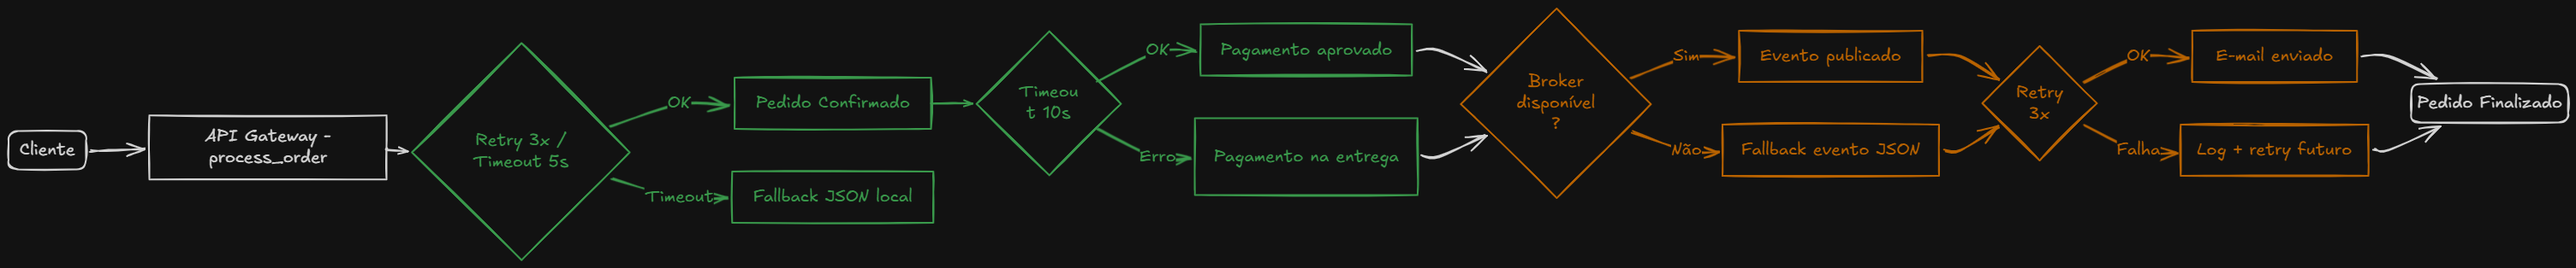
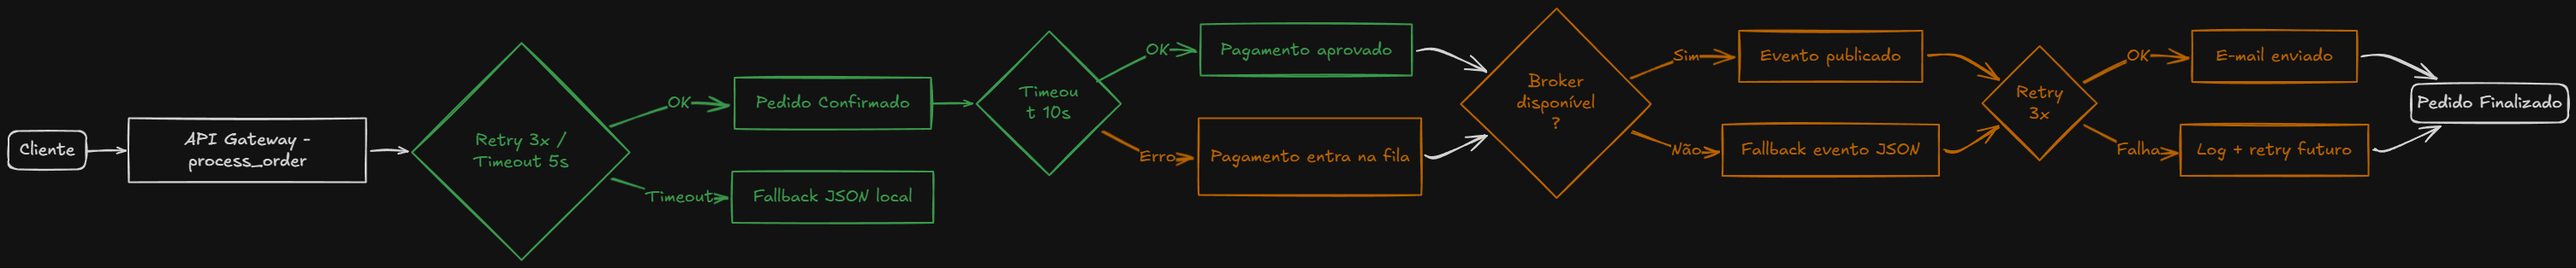
Acertando o fallback do pagamento

diff --git a/gateway.py b/gateway.py
@@ -49,11 +49,11 @@ def save_fallback_order(order: dict) -> str:
     return f"pedido salvo em fila local (fallback_orders.json)"
  
 def payment_fallback(order: dict) -> dict:
-    """Fallback de pagamento: aceita pedido com pagamento na entrega."""
+    """Fallback de pagamento: aceita pedido pagamento entra na fila."""
     return {
         "status": "accepted_fallback",
-        "payment_method": "na entrega",
-        "message": "Pagamento indisponível - aceito pagamento na entrega",
+        "payment_method": "entra em fila",
+        "message": "Pagamento indisponível - Será processado posteriormente",
         "order_id": order["order_id"],
     }
  

diff --git a/README.md b/README.md
@@ -191,7 +191,7 @@ gateway.py (Processamento com resiliência)
 ### 4. Fallback - Payment Offline
 ```
 → Payment Gateway offline
-→ FALLBACK: aceito "pagamento na entrega"
+→ FALLBACK: Pagamento entra em fila
 → Pedido prossegue normalmente
 ```
 
